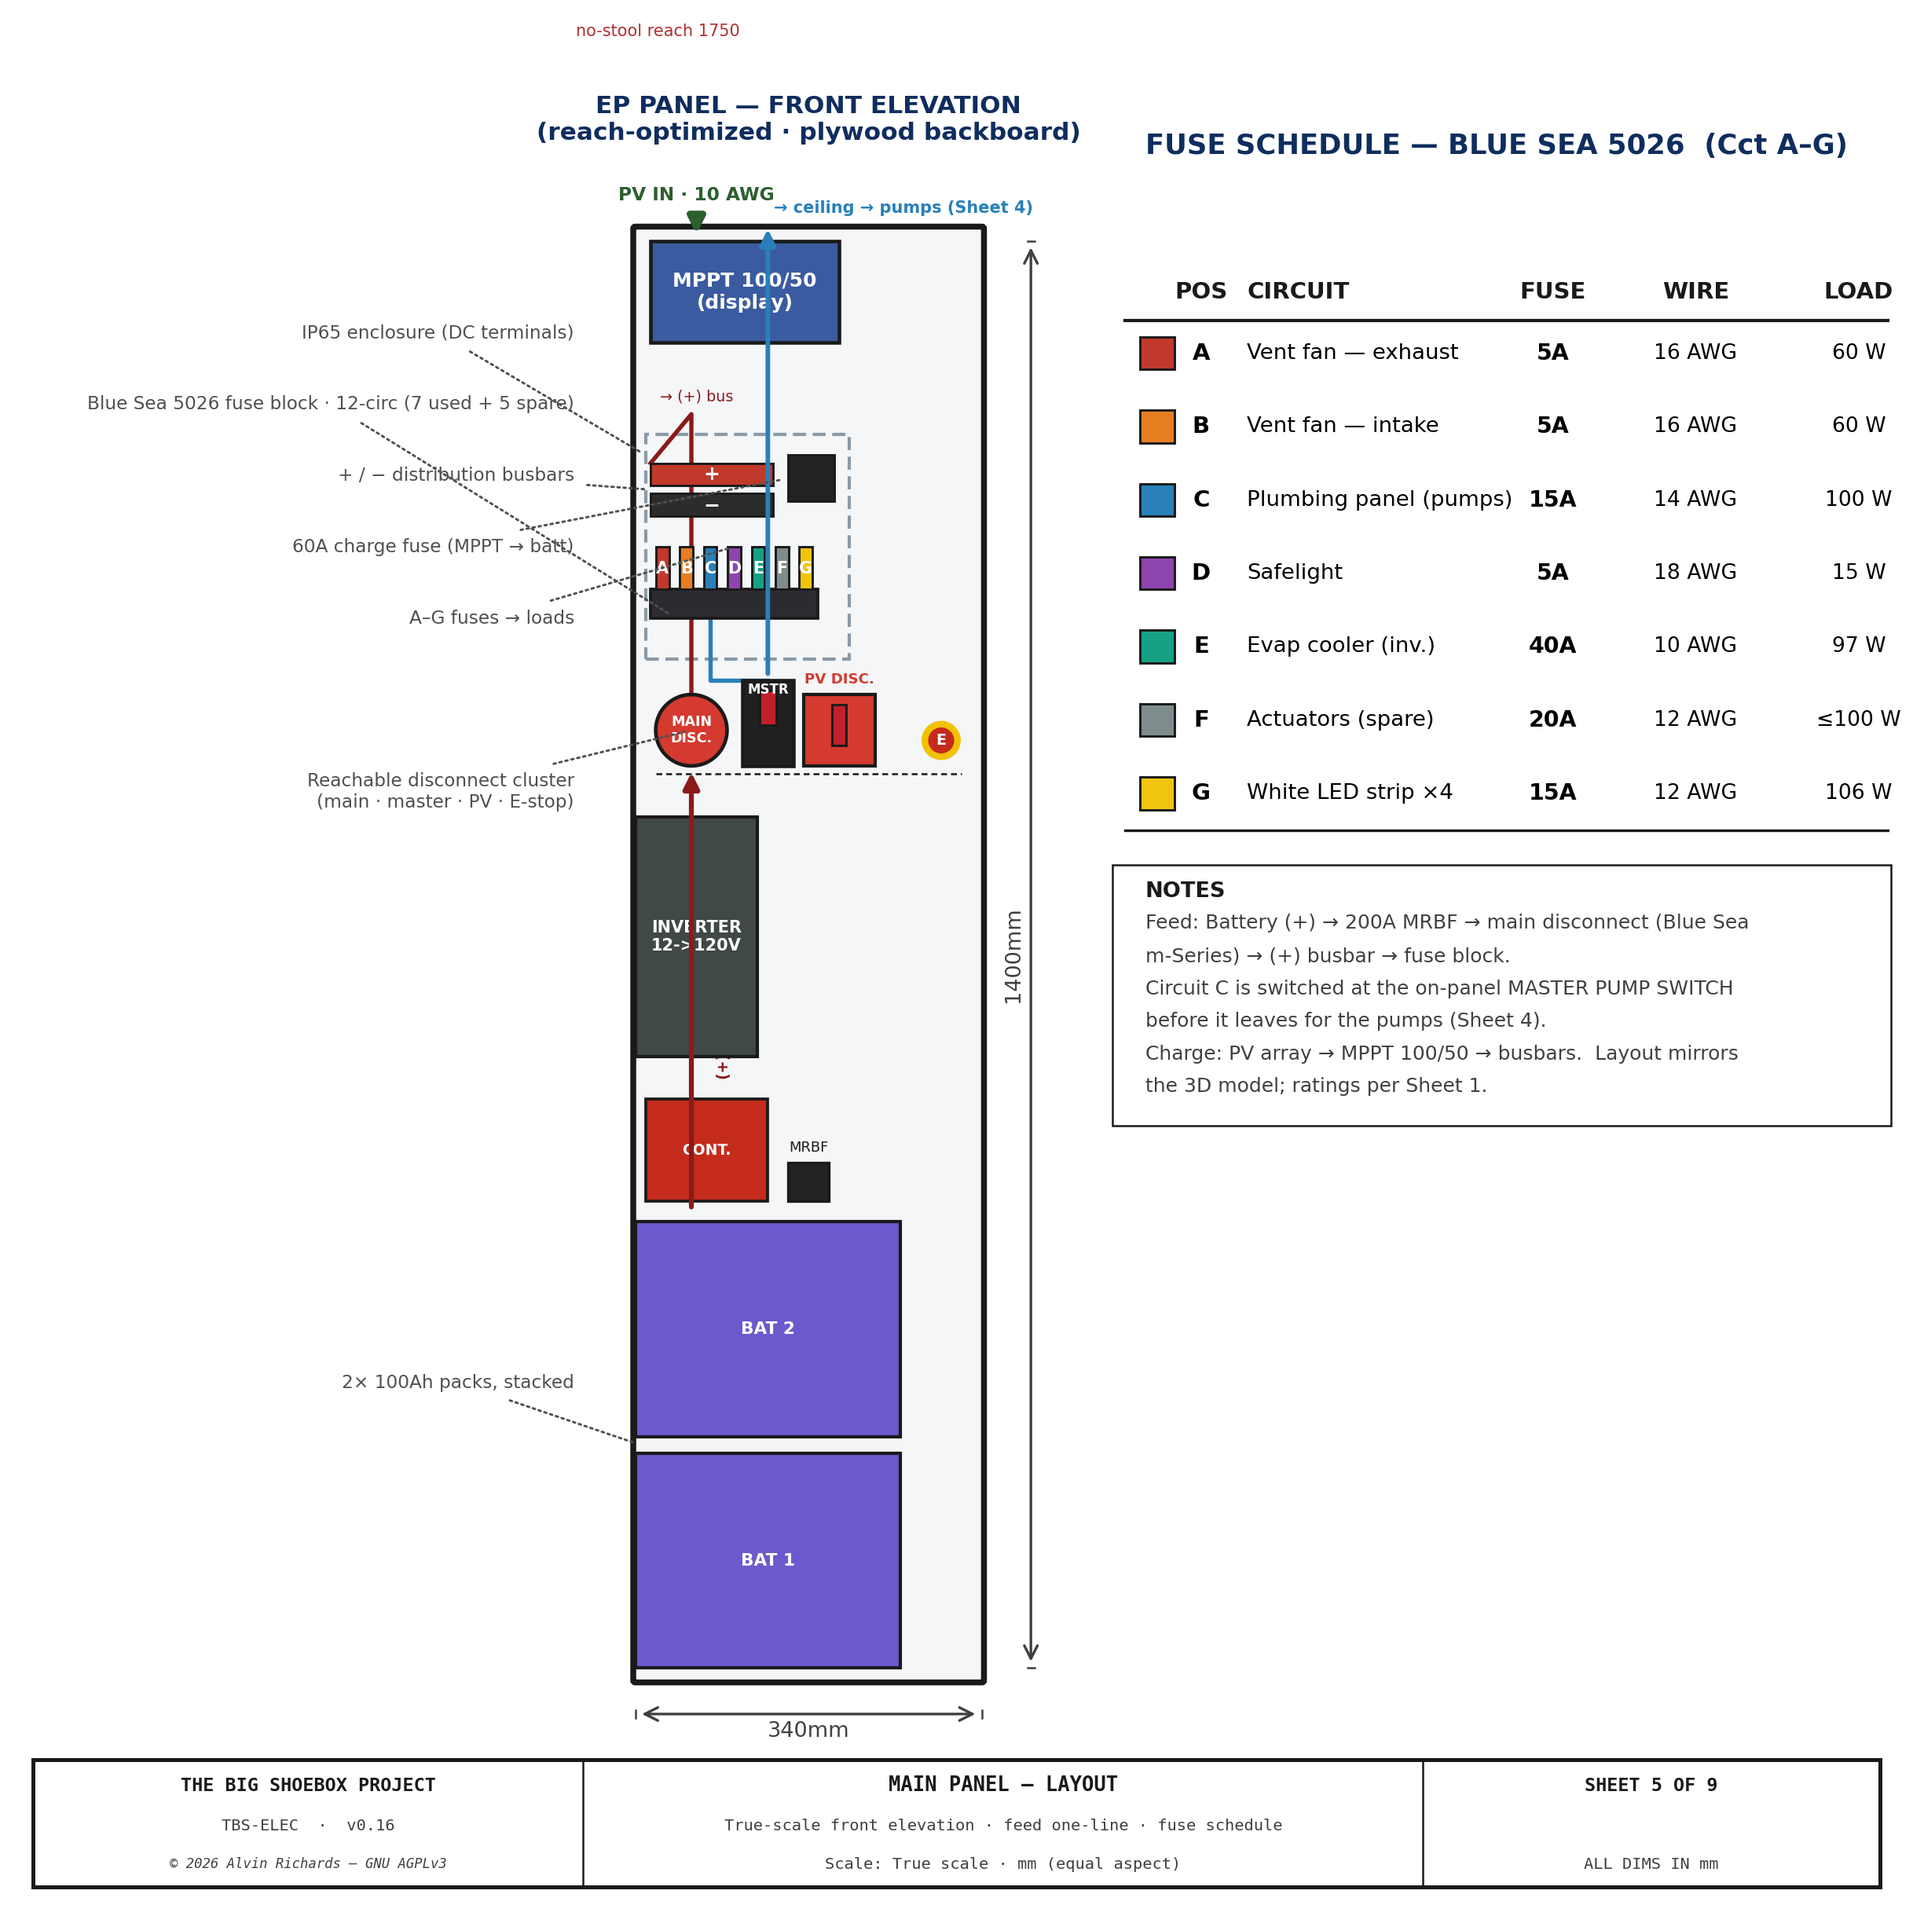
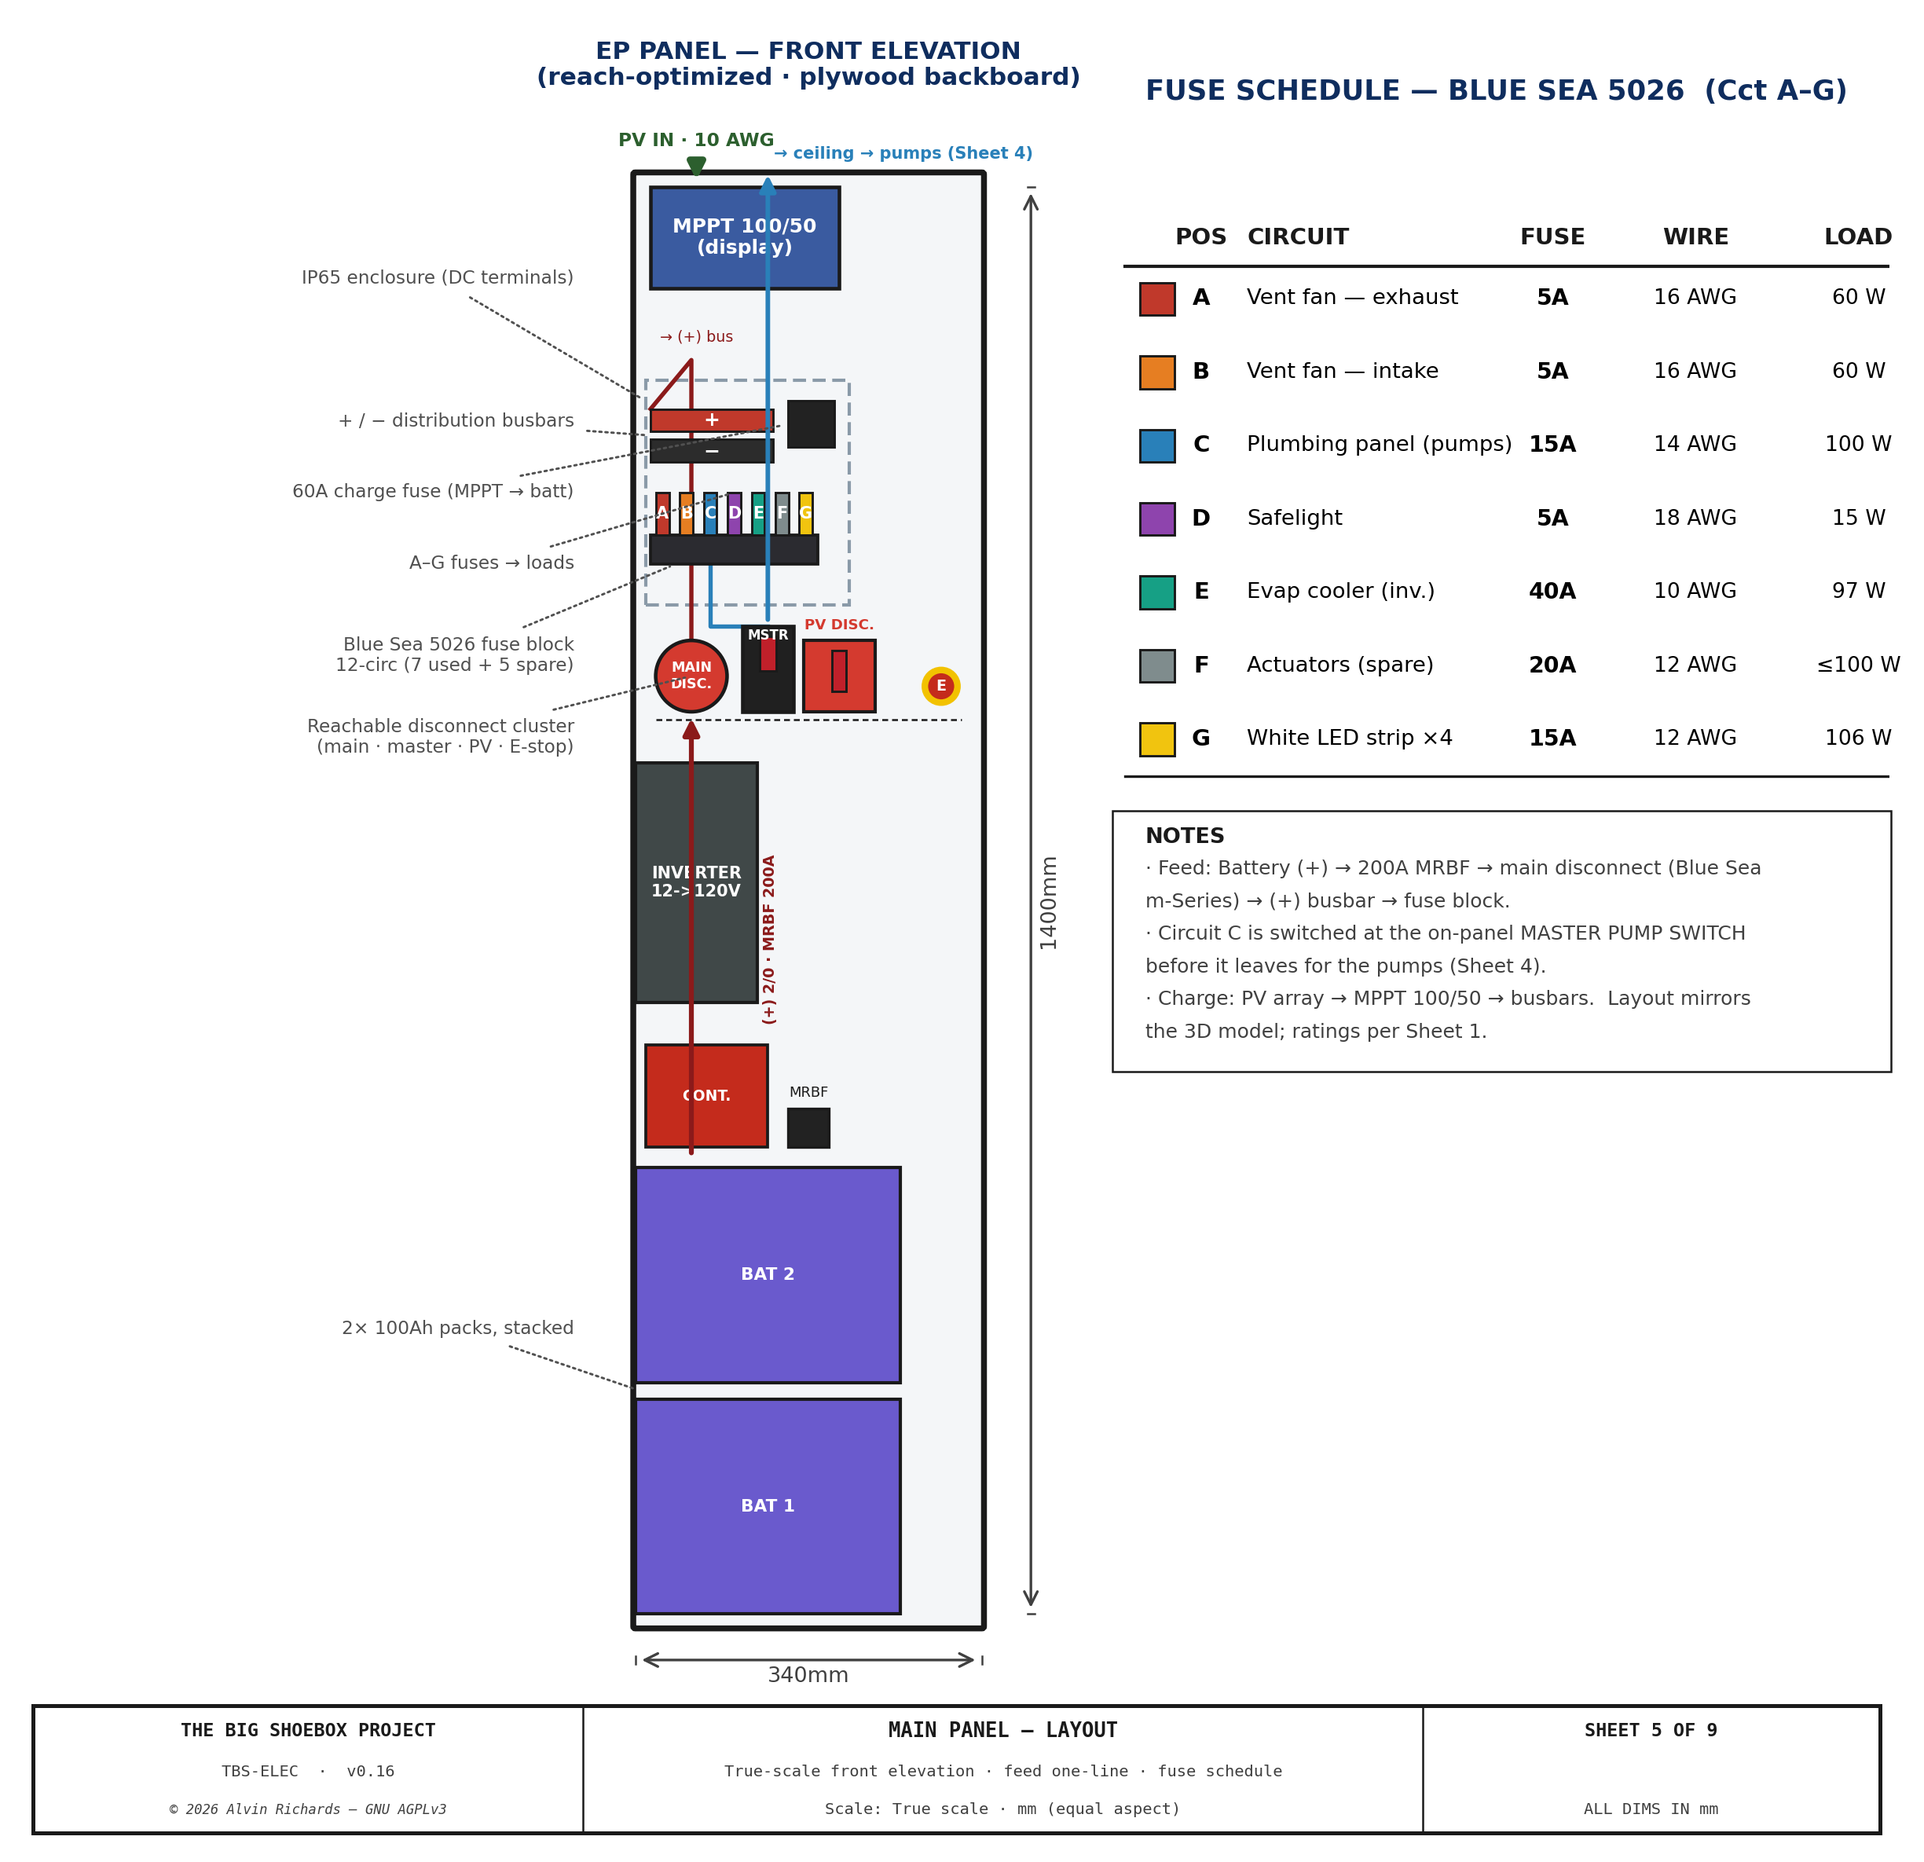
Tidy labels

diff --git a/src/generators/generate_electrical_diagram.py b/src/generators/generate_electrical_diagram.py
@@ -1571,11 +1571,8 @@ def draw_sheet5():
                                 fc="#F4F6F8", ec=C_OUT, lw=1.8, zorder=2))
     ax.text(EP_COL_W / 2, eh1 + 95, "EP PANEL — FRONT ELEVATION\n(reach-optimized · plywood backboard)",
             ha="center", va="bottom", fontsize=7.5, fontweight="bold", color=TITLE_COL)
-    draw_dim_v(ax, EP_COL_W + 48, BA_H_LO, eh1, f"{eh1 - BA_H_LO}mm")
+    draw_dim_v(ax, EP_COL_W + 48, BA_H_LO, eh1, f"{eh1 - BA_H_LO}mm", right=True)
     draw_dim_h(ax, 0, EP_COL_W, BA_H_LO - 45, f"{EP_COL_W}mm", above=False)
-    # no-stool reach ceiling reference
-    ax.plot([-60, EP_COL_W + 20], [1750, 1750], color="#B03030", lw=0.7, ls=(0, (5, 3)), zorder=1)
-    ax.text(-58, 1758, "no-stool reach 1750", ha="left", va="bottom", fontsize=5.0, color="#B03030")
 
     # ── Battery stack (bottom, set-and-forget) ──
     for _bz, _lb in [(BA_H_LO, "BAT 1"), (BA_STACK_Z2, "BAT 2")]:
@@ -1622,7 +1619,7 @@ def draw_sheet5():
         ax.add_patch(R((cx - bw / 2, base_z + fbase_h), bw, fuse_h, fc=col, ec=C_OUT, lw=0.7, zorder=5))
         ax.text(cx, base_z + fbase_h + fuse_h / 2, lt, ha="center", va="center", fontsize=5.0, fontweight="bold", color="white", zorder=6)
     leader(ax, fb_x0 + FUSEBLK_W / 2, base_z + fbase_h + fuse_h, LCX, 1190, "A–G fuses → loads", fs=5.6, color=C_DIM, ha="right")
-    leader(ax, fb_x0 + 25, base_z, LCX, 1400, "Blue Sea 5026 fuse block · 12-circ (7 used + 5 spare)", fs=5.6, color=C_DIM, ha="right")
+    leader(ax, fb_x0 + 25, base_z, LCX, 1100, "Blue Sea 5026 fuse block\n12-circ (7 used + 5 spare)", fs=5.6, color=C_DIM, ha="right")
     bbp, bbn = eh0 + 170, eh0 + 140
     ax.add_patch(R((15, bbp), BUSBAR_L, BUSBAR_H, fc="#C0392B", ec=C_OUT, lw=0.7, zorder=4))
     ax.add_patch(R((15, bbn), BUSBAR_L, BUSBAR_H, fc="#2C2C2C", ec=C_OUT, lw=0.7, zorder=4))
@@ -1641,9 +1638,9 @@ def draw_sheet5():
 
     # ── feed one-line ──
     varrow(ax, 55, BA_STACK_TOP + 8, dz + 35 - DISCONNECT_D / 2, col="#8B1A1A", lw=1.5)   # batt(+) → main disc
-    ax.text(80, (BA_STACK_TOP + dz) / 2, "(+) 2/0 · MRBF 200A", ha="left", va="center", fontsize=4.6, color="#8B1A1A", fontweight="bold", rotation=90)
+    ax.text(125, (BA_STACK_TOP + dz) / 2, "(+) 2/0 · MRBF 200A", ha="left", va="center", fontsize=4.6, color="#8B1A1A", fontweight="bold", rotation=90, zorder=5)
     ax.plot([55, 55, 15], [dz + 35 + DISCONNECT_D / 2, bbp + 70, bbp + BUSBAR_H], color="#8B1A1A", lw=1.3, zorder=3)  # disc → +bus
-    ax.text(24, bbp + 80, "→ (+) bus", ha="left", va="bottom", fontsize=4.6, color="#8B1A1A")
+    ax.text(24, bbp + 85, "→ (+) bus", ha="left", va="bottom", fontsize=4.6, color="#8B1A1A")
     c_cx = fb_x0 + 2.5 * pitch                            # Cct-C blade
     ax.plot([c_cx, c_cx, msw_x + msw_w / 2], [base_z, dz + msw_h, dz + msw_h], color="#2980B9", lw=1.3, zorder=3)  # fuse C → master sw
     varrow(ax, msw_x + msw_w / 2, dz + msw_h, eh1 + 18, col="#2980B9", lw=1.4)
@@ -1672,9 +1669,9 @@ def draw_sheet5():
     ax.plot([tx - 20, tx + 790], [botline, botline], color=C_OUT, lw=0.8)
     draw_notes(ax, [
         "NOTES",
-        "Feed: Battery (+) → 200A MRBF → main disconnect (Blue Sea m-Series) → (+) busbar → fuse block.",
-        "Circuit C is switched at the on-panel MASTER PUMP SWITCH before it leaves for the pumps (Sheet 4).",
-        "Charge: PV array → MPPT 100/50 → busbars.  Layout mirrors the 3D model; ratings per Sheet 1.",
+        "· Feed: Battery (+) → 200A MRBF → main disconnect (Blue Sea m-Series) → (+) busbar → fuse block.",
+        "· Circuit C is switched at the on-panel MASTER PUMP SWITCH before it leaves for the pumps (Sheet 4).",
+        "· Charge: PV array → MPPT 100/50 → busbars.  Layout mirrors the 3D model; ratings per Sheet 1.",
     ], tx, botline - 50, spacing=32, fs=6, wrap=60, width=700)
 
     ax.set_xlim(-600, 1230)
